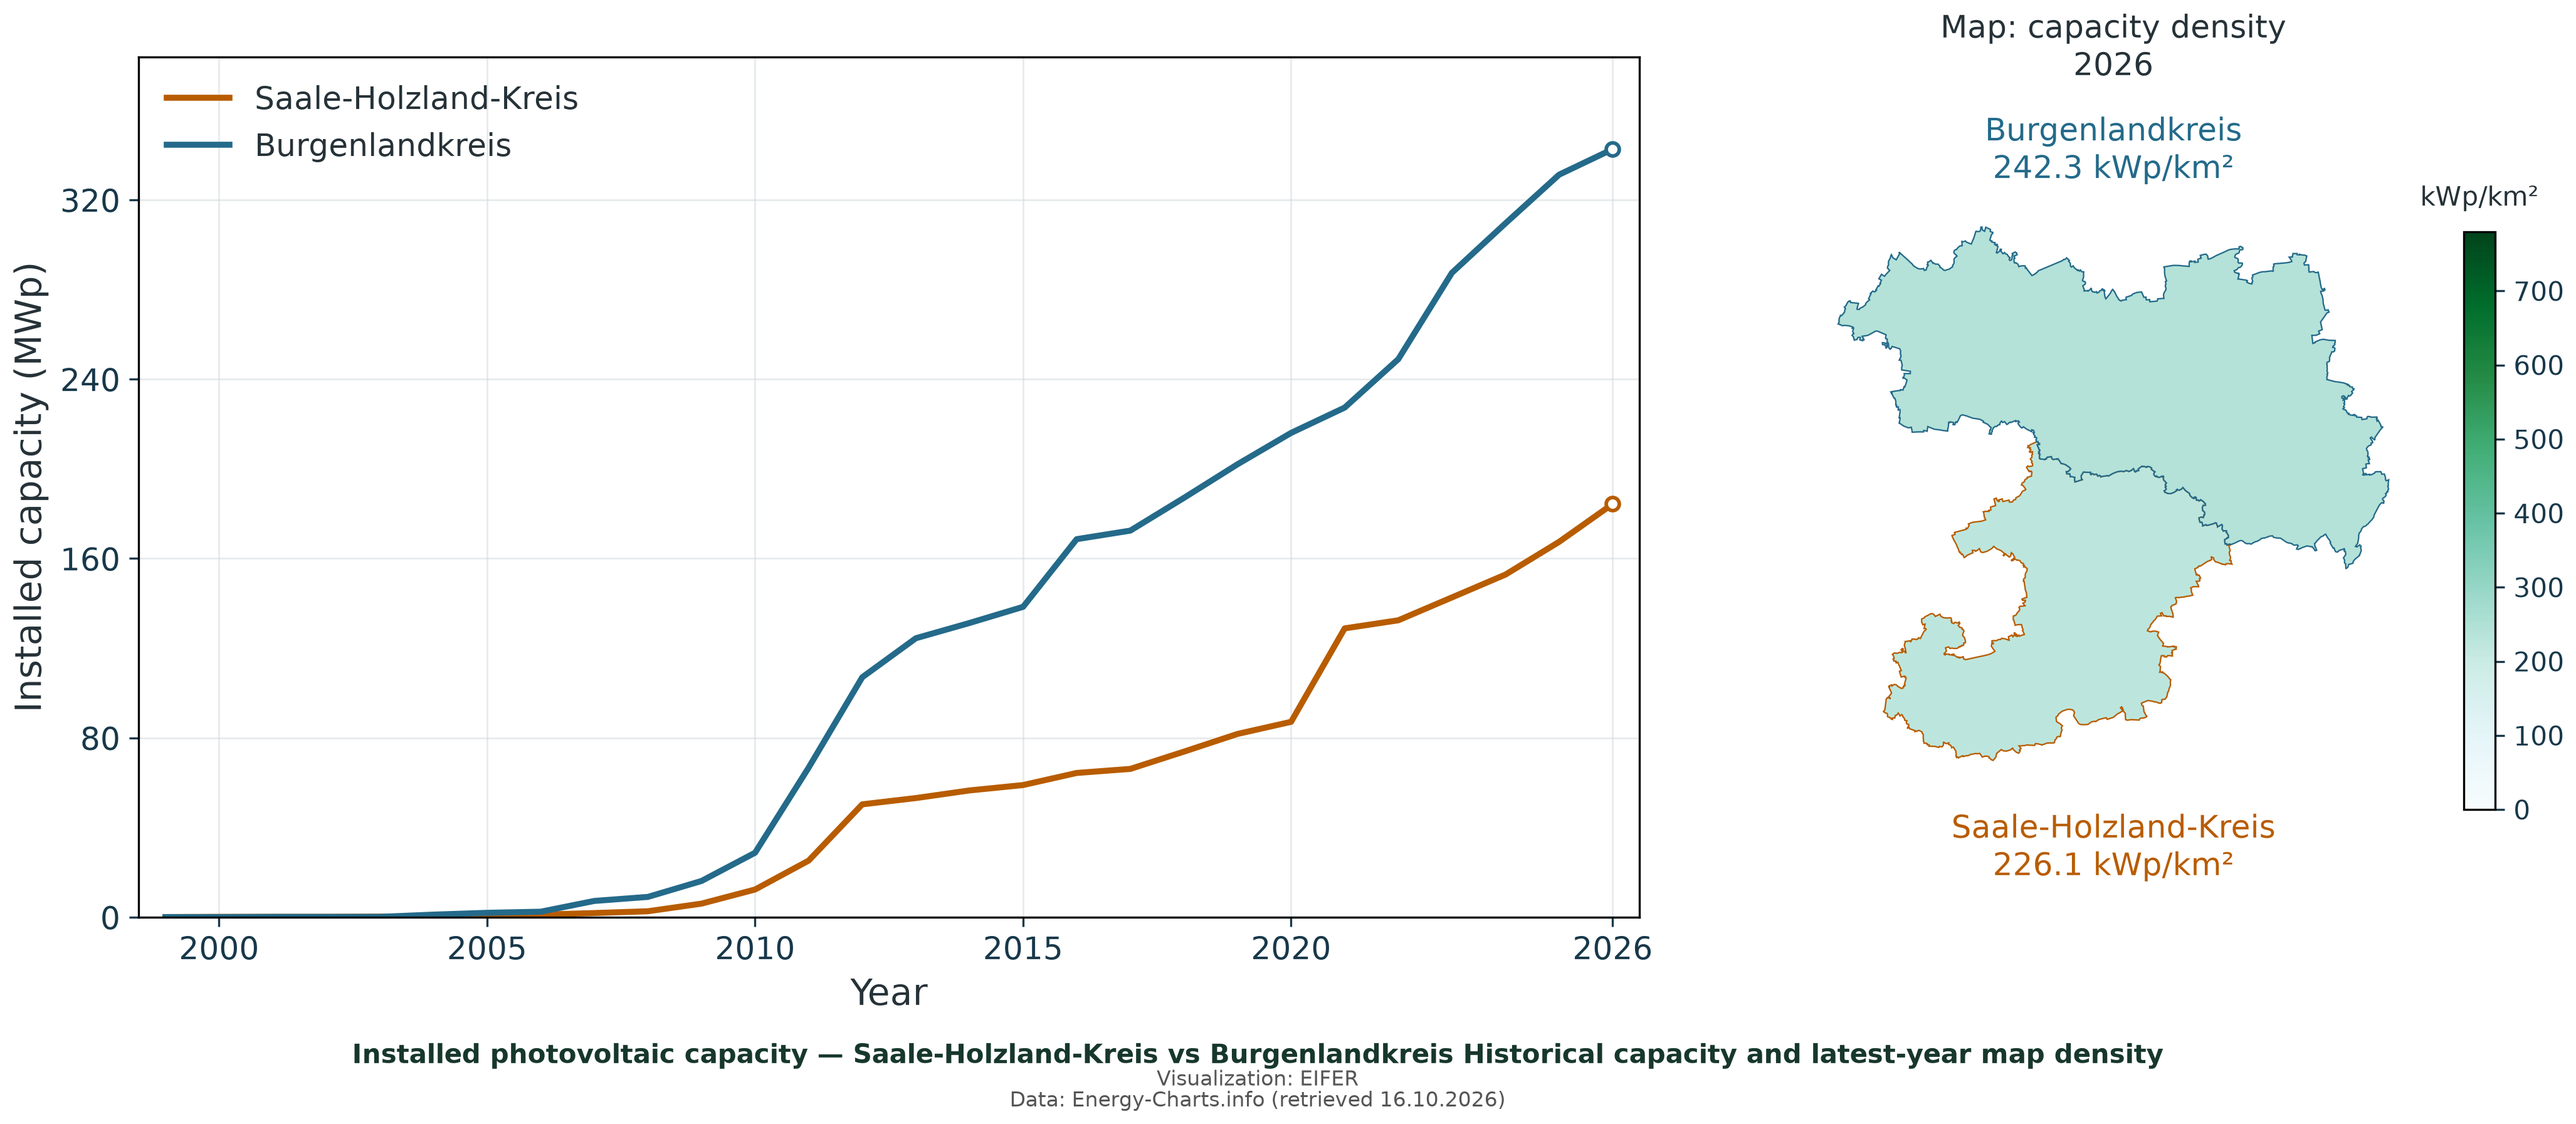
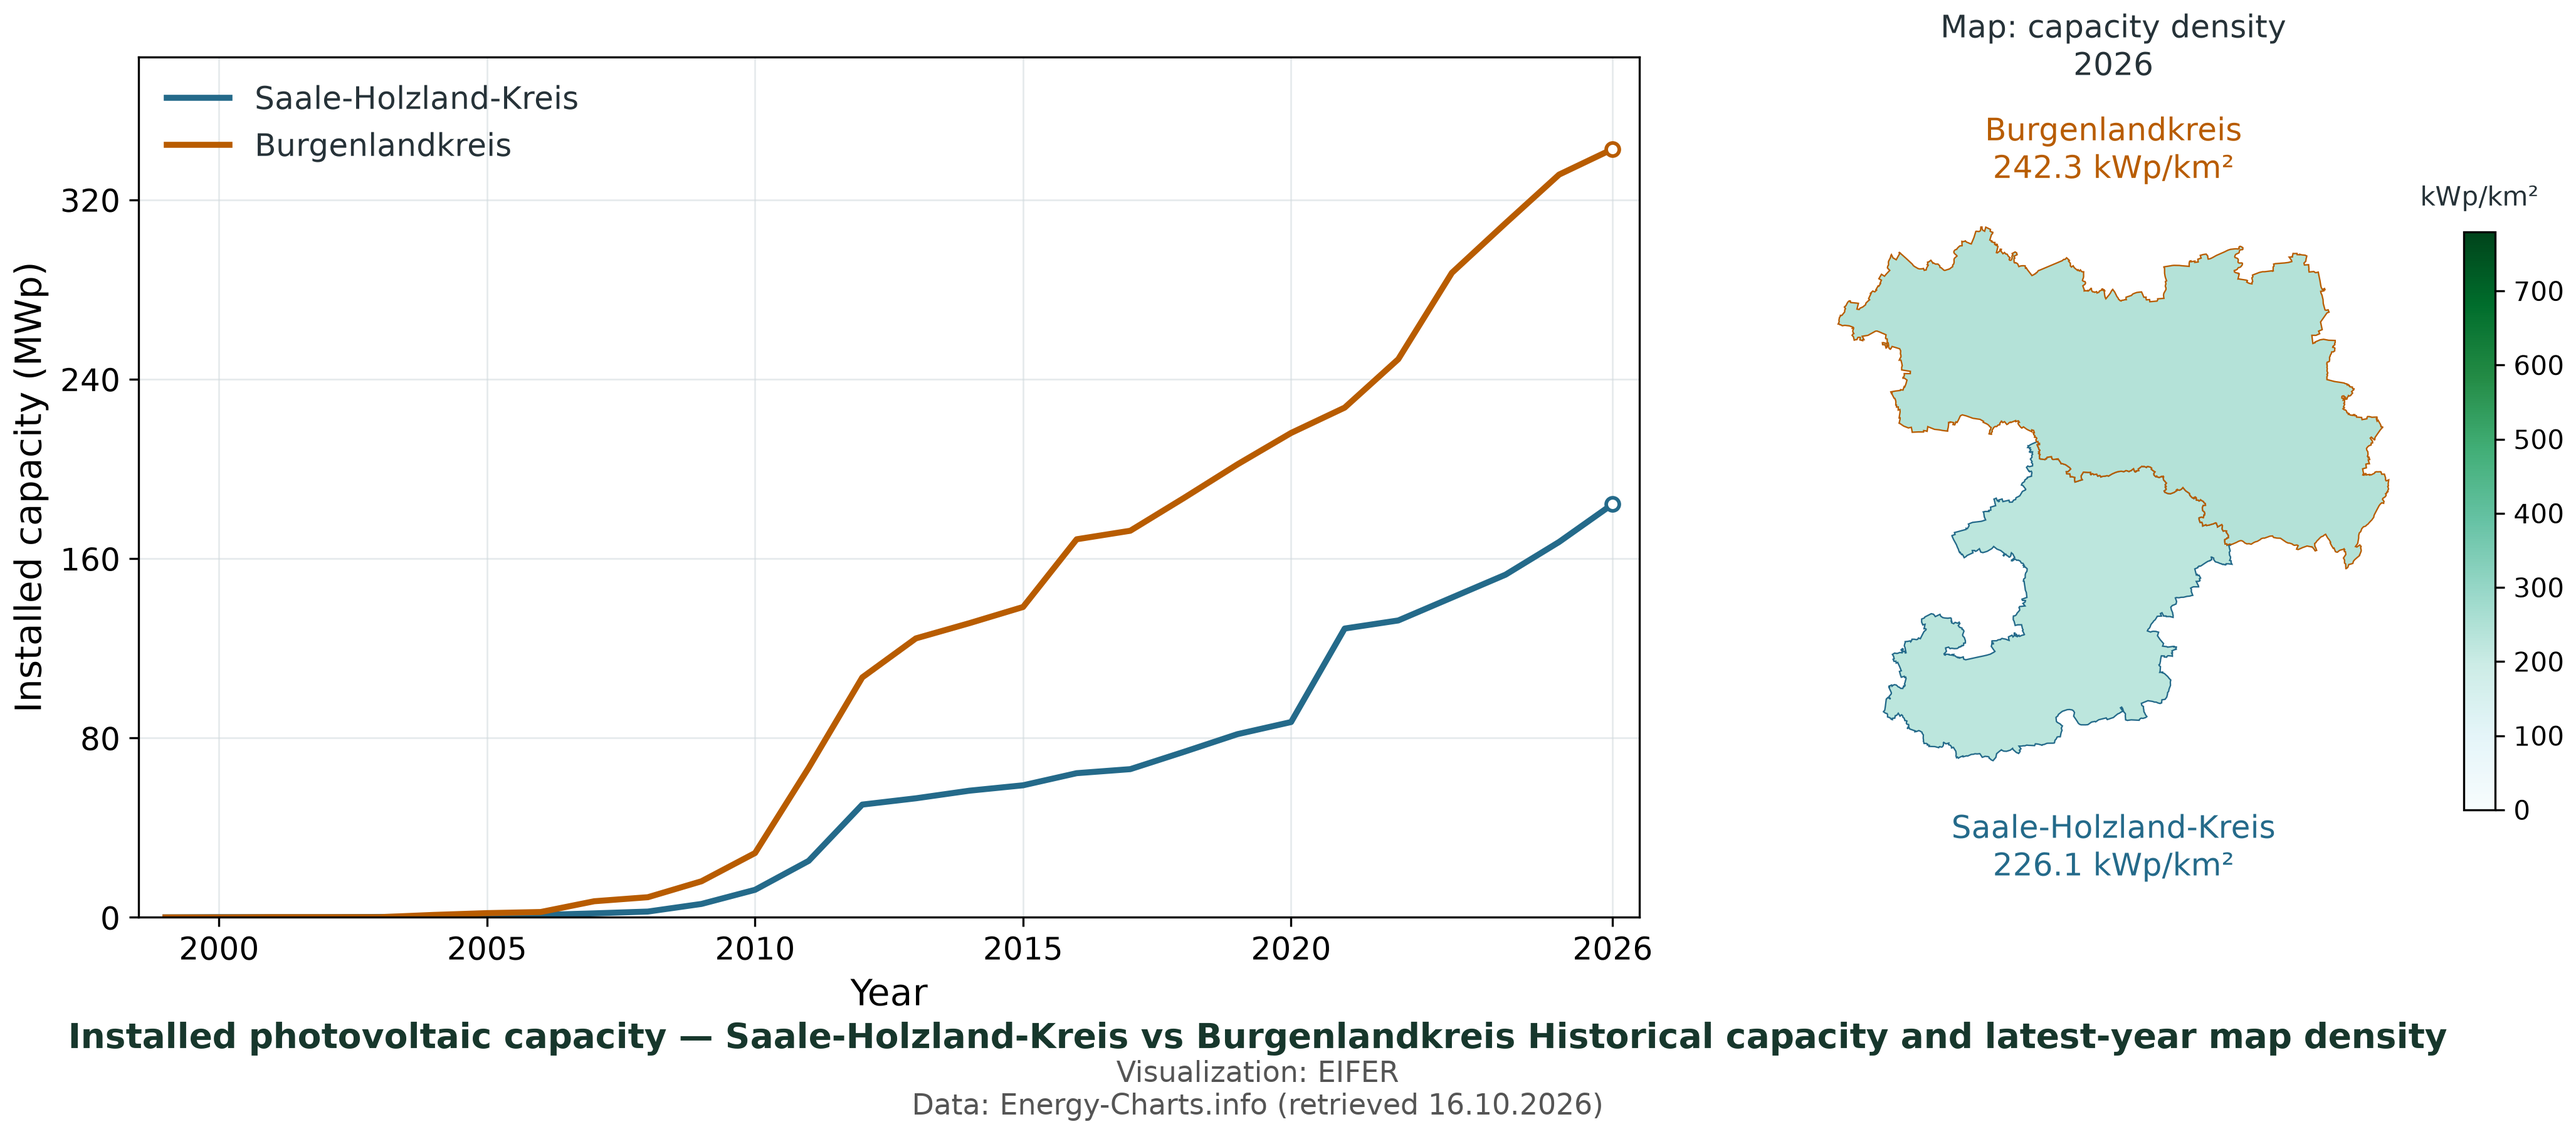
Add regional definition maps and fix district colours

diff --git a/code/figures/regions/definition_maps.py b/code/figures/regions/definition_maps.py
@@ -1,0 +1,152 @@
+"""Maps showing the project's explicit East/West and North/South definitions."""
+
+# Allow running this file directly from an editor or any working directory.
+if __package__ in (None, ''):
+    import sys
+    from pathlib import Path
+    sys.path.insert(0, str(Path(__file__).resolve().parents[2]))
+
+import argparse
+import textwrap
+
+import matplotlib
+matplotlib.use('Agg')
+import matplotlib.pyplot as plt
+import matplotlib.patheffects as pe
+import numpy as np
+from matplotlib.colors import to_rgb
+from matplotlib.patches import Patch
+
+from data_preparation.read_workbook import REGION_GROUPS, STATE_CODES, state_data
+from figures.shared.crop_exports import save_cropped
+from figures.shared.plot_helpers import COLORS, add_polygon, polygon_patch
+from figures.shared.source_credits import add_source_footer
+from project_paths import FINAL_OUTPUTS, WORKBOOK
+
+
+DEFINITIONS = {
+    'east-west': {
+        'title': 'East–West regional definition used in this project',
+        'filename': 'Figure_definition_east-vs-west_germany.png',
+    },
+    'south-north': {
+        'title': 'North–South regional definition used in this project',
+        'filename': 'Figure_definition_north-vs-south_germany.png',
+    },
+}
+
+
+def polygons(geometry):
+    return [geometry['coordinates']] if geometry['type'] == 'Polygon' else geometry['coordinates']
+
+
+def label_point(state, geometry):
+    """Return a stable interior-ish label point for a state geometry."""
+    rings = [np.asarray(p[0], dtype=float) for p in polygons(geometry)]
+    if state == 'Brandenburg':
+        points = np.concatenate(rings)
+        low, high = points.min(axis=0), points.max(axis=0)
+        return low + (high - low) * np.array([.80, .35])
+    if state == 'Hesse':
+        points = np.concatenate(rings)
+        low, high = points.min(axis=0), points.max(axis=0)
+        return low + (high - low) * np.array([.50, .55])
+    ring = max(rings, key=lambda r: abs(np.dot(r[:-1, 0], r[1:, 1]) -
+                                         np.dot(r[1:, 0], r[:-1, 1])))
+    x, y = ring[:-1, 0], ring[:-1, 1]
+    cross = x * np.roll(y, -1) - np.roll(x, -1) * y
+    area = cross.sum() / 2
+    return np.array([((x + np.roll(x, -1)) * cross).sum(),
+                     ((y + np.roll(y, -1)) * cross).sum()]) / (6 * area)
+
+
+def light_color(color, white_amount=.72):
+    """Blend the existing project colour with white for large map fills."""
+    rgb = np.asarray(to_rgb(color))
+    return tuple(rgb * (1 - white_amount) + white_amount)
+
+
+def label_text(state):
+    replacements = {
+        'Mecklenburg-Western Pomerania': 'Mecklenburg–\nWestern Pomerania',
+        'North Rhine-Westphalia': 'North Rhine–\nWestphalia',
+        'Rhineland-Palatinate': 'Rhineland–\nPalatinate',
+        'Baden-Württemberg': 'Baden–\nWürttemberg',
+        'Schleswig-Holstein': 'Schleswig–\nHolstein',
+    }
+    return replacements.get(state, '\n'.join(textwrap.wrap(state, 16)))
+
+
+def draw_map(definition, output=FINAL_OUTPUTS, dpi=300):
+    if definition not in DEFINITIONS:
+        raise ValueError(f'Unknown definition: {definition}')
+
+    groups = REGION_GROUPS[definition]
+    states = [state for members in groups.values() for state in members]
+    if set(states) != set(STATE_CODES) or len(states) != len(set(states)):
+        raise ValueError(f'{definition} must partition all 16 states exactly once')
+
+    _, _, _, matched = state_data(WORKBOOK, states)
+    group_by_state = {state: group for group, members in groups.items() for state in members}
+    group_names = list(groups)
+    group_base = {group: COLORS[index] for index, group in enumerate(group_names)}
+    group_fill = {group: light_color(group_base[group]) for group in group_names}
+
+    plt.rcParams.update({'font.family': 'DejaVu Sans', 'font.size': 11})
+    fig = plt.figure(figsize=(10.5, 10.2), dpi=dpi, facecolor='none')
+    ax = fig.add_axes([.055, .20, .89, .66], facecolor='none')
+
+    for record, geometry in matched:
+        group = group_by_state[record['state']]
+        for rings in polygons(geometry):
+            patch = polygon_patch(rings, group_fill[group])
+            patch.set_edgecolor('#FFFFFF')
+            patch.set_linewidth(.85)
+            add_polygon(ax, patch)
+
+    ax.autoscale_view()
+    ax.set_aspect('equal')
+    ax.set_axis_off()
+    ax.margins(.02)
+
+    for record, geometry in matched:
+        state = record['state']
+        x, y = label_point(state, geometry)
+        ax.text(x, y, label_text(state), ha='center', va='center',
+                fontsize=8.4, color='#263238', linespacing=1.03, zorder=5,
+                path_effects=[pe.withStroke(linewidth=2.4, foreground='white')])
+
+    handles = [Patch(facecolor=group_fill[group], edgecolor=group_base[group],
+                     linewidth=1.0, label=group) for group in group_names]
+    ax.legend(handles=handles, loc='upper center', bbox_to_anchor=(.5, -.07),
+              ncol=len(handles), frameon=False, fontsize=13,
+              handlelength=1.4, handleheight=1.0, columnspacing=2.0,
+              borderaxespad=0)
+
+    add_source_footer(
+        fig,
+        ['Visualization: EIFER',
+         'Data: Project regional definition; boundaries: (c) BKG 2025, VG250'],
+        title=DEFINITIONS[definition]['title'],
+        fontsize=11,
+    )
+
+    output.mkdir(parents=True, exist_ok=True)
+    target = output / DEFINITIONS[definition]['filename']
+    save_cropped(fig, target)
+    plt.close(fig)
+    print(target)
+    return target
+
+
+def main():
+    parser = argparse.ArgumentParser(description=__doc__)
+    parser.add_argument('--definition', choices=[*DEFINITIONS, 'all'], default='all')
+    args = parser.parse_args()
+    definitions = DEFINITIONS if args.definition == 'all' else {args.definition: DEFINITIONS[args.definition]}
+    for definition in definitions:
+        draw_map(definition)
+
+
+if __name__ == '__main__':
+    main()

diff --git a/code/figures/shared/comparison.py b/code/figures/shared/comparison.py
@@ -58,14 +58,21 @@ def main():
     if not np.isfinite(final_density).all():raise ValueError('Incomplete map density values.')
     factor=1000 if values.max()>=1000 else 1
     unit='GWp' if factor==1000 else 'MWp'
+    # Keep the slide convention stable even when district selections are
+    # alphabetically ordered: Saxony-Anhalt is orange, Thuringia is blue.
+    state_colors = {'Saxony-Anhalt': COLORS[0], 'Thuringia': COLORS[1]}
+    record_colors = {
+        r['name']: state_colors.get(r.get('state'), COLORS[i])
+        for i, r in enumerate(records)
+    }
     plt.rcParams.update({'font.family':'DejaVu Sans','font.size':12,'axes.labelsize':14,'text.color':'#263238'})
     fig=plt.figure(figsize=(14,7.15),dpi=300,facecolor='none')
     ax=fig.add_axes([.075,.28,.57,.64])
     map_ax=fig.add_axes([.71,.31,.23,.57])
     for i,r in enumerate(records):
-        ax.plot(years,values[i]/factor,color=COLORS[i],lw=2.3,label=r['name'])
+        ax.plot(years,values[i]/factor,color=record_colors[r['name']],lw=2.3,label=r['name'])
         if is_partial_year(year):
-            ax.plot(year,values[i,-1]/factor,'o',mfc='white',mec=COLORS[i],mew=1.4,ms=5)
+            ax.plot(year,values[i,-1]/factor,'o',mfc='white',mec=record_colors[r['name']],mew=1.4,ms=5)
     ticks=[y for y in years if y%5==0 and year-y>=3]+[year]
     ax.set_xticks(ticks,[str(y) for y in ticks])
     ax.set(xlabel='Year',ylabel=f'Installed capacity ({unit})',xlim=(years[0]-.5,year+.5),ylim=(0,(values/factor).max()*1.12))
@@ -86,11 +93,13 @@ def main():
         polygons=[geometry['coordinates']] if geometry['type']=='Polygon' else geometry['coordinates']
         for rings in polygons:
             patch=polygon_patch(rings,color)
-            patch.set_edgecolor(COLORS[i]);patch.set_linewidth(.55)
+            patch.set_edgecolor(record_colors.get(r['name'], COLORS[i]));patch.set_linewidth(.55)
             add_polygon(map_ax,patch)
     map_ax.autoscale_view();map_ax.set_aspect('equal');map_ax.set_axis_off();map_ax.margins(.05)
     labels=[f"{r['name']}\n{density_by_name[r['name']]:,.1f} kWp/km²" for r,_ in matched]
-    add_external_map_labels(map_ax,matched,labels,[COLORS[record_index[r['name']]] for r,_ in matched],fontsize=12)
+    add_external_map_labels(map_ax,matched,labels,
+                            [record_colors.get(r['name'], COLORS[record_index[r['name']]])
+                             for r,_ in matched],fontsize=12)
     map_ax.set_title(f'Map: capacity density\n{year}',fontsize=12,pad=48)
     cax=fig.add_axes([.958,.36,.012,.43])
     bar=fig.colorbar(ScalarMappable(norm=norm,cmap=cmap),cax=cax)

diff --git a/main.py b/main.py
@@ -51,7 +51,7 @@ def region_comparisons(*args):
 
 
 FIGURE_TASKS = ["germany-animation", "germany-labeled-map", "nep-b-maps", "mastr-additions", "eeg-exit", "redispatch-maps", "redispatch-official",
-                "redispatch-history", "regions-nep", "region-comparisons", "state-charts", "pair-comparisons", "external-figures"]
+                "redispatch-history", "regions-nep", "region-definition-maps", "region-comparisons", "state-charts", "pair-comparisons", "external-figures"]
 
 
 def all_figures(*args):
@@ -112,6 +112,8 @@ TASKS = {
                          lambda *a: run("data_preparation.redispatch_excel.prepare", "--export", *a)),
     "regions-nep": ("Figures", "East/West and North/South history with NEP A/B/C",
                     lambda *a: run("figures.regions.nep_scenarios", *a)),
+    "region-definition-maps": ("Figures", "Maps of the project's East/West and North/South state definitions",
+                               lambda *a: run("figures.regions.definition_maps", *a)),
     "region-comparisons": ("Figures", "Regional historical capacity and latest density maps", region_comparisons),
     "state-charts": ("Figures", "State capacity-versus-density scatter diagrams",
                      lambda *a: run("figures.states.charts", *a)),
